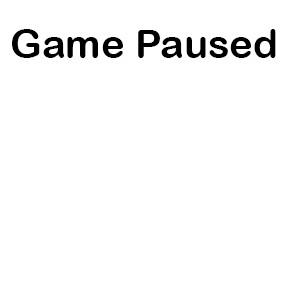
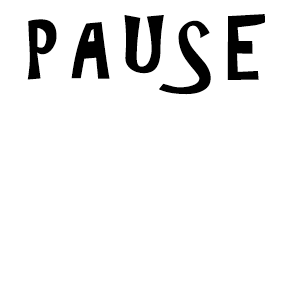
stylized pause menu

Changed region(s): [[0.03, 0.03, 0.93, 0.33]]

diff --git a/desktop/robotsvsanimals.js b/desktop/robotsvsanimals.js
@@ -674,6 +674,17 @@ rva.PauseScene = pulse.Scene.extend({
         this.layer = new pulse.Layer();
         this.layer.position = { x: 375, y: 225 };
         this.addLayer(this.layer);
+                                    
+        var bg = new pulse.Sprite({
+                                  src: 'img/black.png',
+                                  size: {
+                                  width: 1500,
+                                  height: 1000
+                                  }
+                                  });
+        bg.position = { x: 0, y: 0 };
+        this.layer.addNode(bg);
+        
 
         var bg = new pulse.Sprite({
             src: 'img/pauseimage.png',
@@ -681,11 +692,9 @@ rva.PauseScene = pulse.Scene.extend({
 		bg.position = { x: 375, y: 225 };
         this.layer.addNode(bg);
 		
-		var bg = buttonMaker('img/resume.png', 'resume', 370, 200, that);
-		bg.size = { width: 250, height: 100}
+		var bg = buttonMaker('img/RESUME.png', 'resume', 370, 220, that);
 		this.layer.addNode(bg);
-		var bg = buttonMaker('img/mainmenu.png', 'mainMenu', 370,  310, that);
-			bg.size = { width: 250, height: 100}
+		var bg = buttonMaker('img/QUIT.png', 'mainMenu', 370,  310, that);
 		this.layer.addNode(bg);
     }
 });
